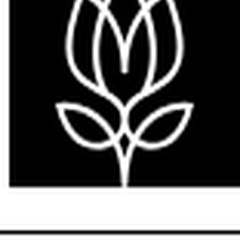
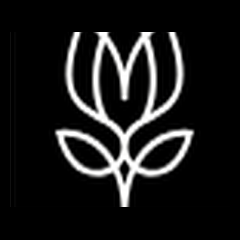
Fix Flora thumbnail (full black bg), add blinking cursor for Singularity Hub

diff --git a/en/index.html b/en/index.html
@@ -91,7 +91,7 @@
 
       <div class="project-item reveal">
         <span class="project-year">2024</span>
-        <img class="project-thumb" src="../assets/img/thumb-singularity.png" alt="Singularity Hub" loading="lazy">
+        <div class="project-thumb project-thumb--cursor"><span>/</span></div>
         <div class="project-name">
           <span class="project-name-title">Singularity Hub</span>
           <span class="project-name-link" onclick="window.open('https://singularity.academy/', '_blank')">site ↗</span>

diff --git a/index.html b/index.html
@@ -107,7 +107,7 @@
 
       <div class="project-item reveal">
         <span class="project-year">2024</span>
-        <img class="project-thumb" src="assets/img/thumb-singularity.png" alt="Singularity Hub" loading="lazy">
+        <div class="project-thumb project-thumb--cursor"><span>/</span></div>
         <div class="project-name">
           <span class="project-name-title">Singularity Hub</span>
           <span class="project-name-link" onclick="window.open('https://singularity.academy/', '_blank')">site ↗</span>

diff --git a/styles.css b/styles.css
@@ -347,6 +347,27 @@ button {
   align-self: center;
 }
 
+.project-thumb--cursor {
+  background: #000;
+  display: flex;
+  align-items: center;
+  justify-content: center;
+  font-family: Georgia, serif;
+  font-size: 40px;
+  font-weight: 300;
+  color: #fff;
+  line-height: 1;
+}
+
+.project-thumb--cursor span {
+  animation: cursor-blink 1s step-end infinite;
+}
+
+@keyframes cursor-blink {
+  0%, 100% { opacity: 1; }
+  50% { opacity: 0; }
+}
+
 .project-name {
   font-size: 25px;
   font-weight: 400;
